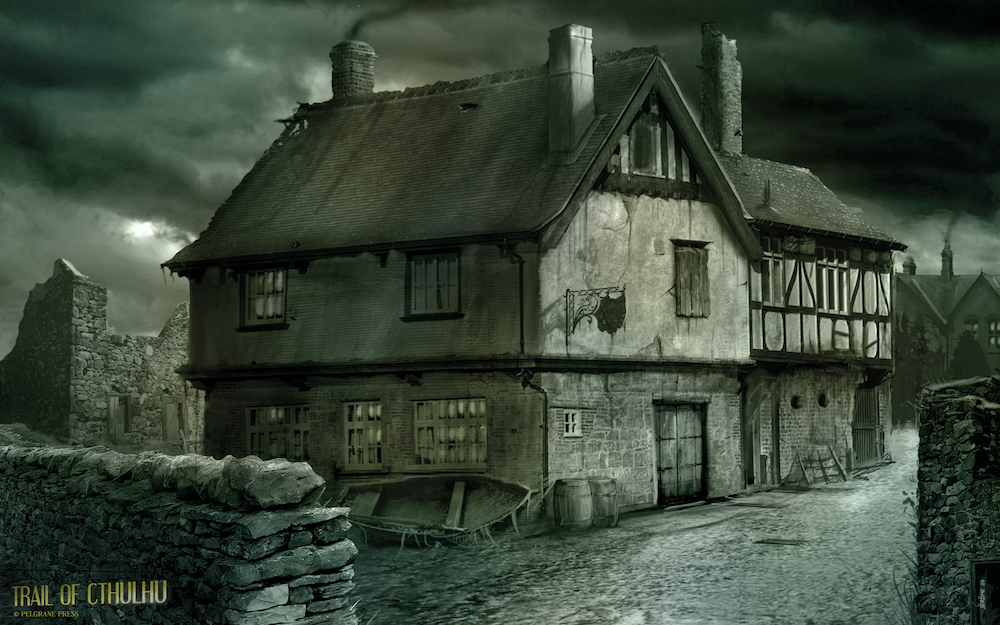
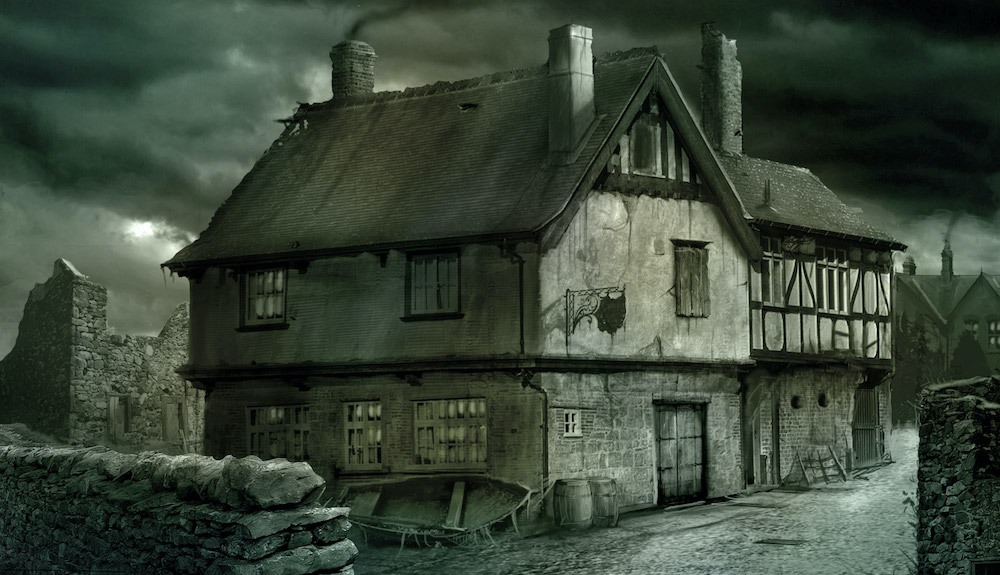
added narrator file

diff --git a/src/scenes.py b/src/scenes.py
@@ -17,22 +17,17 @@ class Display_Scene(Init_Game):
 
         pygame.display.update()   
 
-    def node2(self):
+    def node2(self, WIN_RESIZED):
         #display scene 2
         self.PSEUDO_SCREEN.fill(self.BLACK)
-        self.PSEUDO_SCREEN.blit(self.TENTACLE, (150, 450))
-        self.PSEUDO_SCREEN.blit(self.DIAL_BOX, (40, 430))
 
-        #display dialogue
         with open('dialogue.txt', 'r') as f:
+            f.seek(8)
             line1 = self.FONT.render(f.readline().rstrip('\n'), True, self.WHITE)
             line2 = self.FONT.render(f.readline().rstrip('\n'), True, self.WHITE)
-            line3 = self.FONT.render(f.readline().rstrip('\n'), True, self.WHITE)
-            line4 = self.FONT.render(f.readline().rstrip('\n'), True, self.WHITE)
-            self.PSEUDO_SCREEN.blit(line1, (190, 510))
-            self.PSEUDO_SCREEN.blit(line2, (190, 545))
-            self.PSEUDO_SCREEN.blit(line3, (190, 580))
-            self.PSEUDO_SCREEN.blit(line4, (190, 615))
+            self.SCREEN.blit(line1, (325, 330))
+            self.SCREEN.blit(line2, (300, 365))
+
         pygame.display.update()
 
     def node3(self):
@@ -44,6 +39,7 @@ class Display_Scene(Init_Game):
 
         #display dialogue
         with open('dialogue.txt', 'r') as f:
+            f.seek(100)
             line1 = self.FONT.render(f.readline().rstrip('\n'), True, self.WHITE)
             line2 = self.FONT.render(f.readline().rstrip('\n'), True, self.WHITE)
             line3 = self.FONT.render(f.readline().rstrip('\n'), True, self.WHITE)
@@ -83,7 +79,7 @@ class Display_Scene(Init_Game):
         bottom_margin = pygame.draw.rect(self.PSEUDO_SCREEN, self.BLACK, [0, 570, 1000, 70])
 
         self.PSEUDO_SCREEN.blit(self.LOOK_INTO_IT, (30, 600))
-        self.PSEUDO_SCREEN.blit(self.TELL_HIM, (695, 600))
+        self.PSEUDO_SCREEN.blit(self.TELL_HIM, (680, 600))
         self.PSEUDO_SCREEN.blit(self.WHITE_LINE, (100, 270))
 
         pygame.display.update()
@@ -110,7 +106,7 @@ class Display_Scene(Init_Game):
     def node7(self):
         #display scene 7
         self.PSEUDO_SCREEN.fill(self.BLACK)
-        self.PSEUDO_SCREEN.blit(self.HOUSE, (0, 37.5))
+        self.PSEUDO_SCREEN.blit(self.HOUSE, (0, 62.5))
         self.PSEUDO_SCREEN.blit(self.TENTACLE, (150, 450))
         self.PSEUDO_SCREEN.blit(self.DIAL_BOX, (40, 430))
 
@@ -259,7 +255,7 @@ class Display_Scene(Init_Game):
     def node16(self):
         #display scene 16
         self.PSEUDO_SCREEN.fill(self.BLACK)
-        self.PSEUDO_SCREEN.blit(self.HOUSE, (0, 37.5))
+        self.PSEUDO_SCREEN.blit(self.HOUSE, (0, 62.5))
         self.PSEUDO_SCREEN.blit(self.TENTACLE, (150, 450))
         self.PSEUDO_SCREEN.blit(self.DIAL_BOX, (40, 430))
 
@@ -423,3 +419,6 @@ class Display_Scene(Init_Game):
                     top_margin = pygame.draw.rect(self.SCREEN, self.BLACK, [0, TOP_Y, w, h/10])
                     bottom_margin = pygame.draw.rect(self.SCREEN, self.BLACK, [0, BOTTOM_Y, w, h/10])
                     pygame.display.update()
+    
+
+

diff --git a/src/gamefeatures.py b/src/gamefeatures.py
@@ -2,11 +2,12 @@
 import sys, pygame
 from pygame import mixer
 from scenes import Display_Scene
+from narrator import Narrator
 
 pygame.init()
 mixer.init()
 
-class Game_Features(Display_Scene):
+class Game_Features(Display_Scene, Narrator):
     def __init__(self):
         self.scene = 'node1'
         self.WIN_RESIZED = False
@@ -17,7 +18,7 @@ class Game_Features(Display_Scene):
             self.blit_screen()
             self.user_decision('node1')
         if self.scene == 'node2':
-            self.node2()
+            self.node2(self.WIN_RESIZED)
             self.blit_screen()
             self.user_decision('node2')
         if self.scene == 'node3':
@@ -122,8 +123,8 @@ class Game_Features(Display_Scene):
                 self.START_BUTTON_POS = pygame.Rect(w/2.25, h/1.23, w/8.3, h/14)
                 pygame.draw.rect(self.COLLISION_SCREEN, self.WHITE, self.START_BUTTON_POS, 3)
             if self.scene == 'node5':
-                self.TELL_HIM_POS = pygame.Rect(w/1.44, h/1.17, w/3.6, h/28)
-                self.LOOK_INTO_IT_POS = pygame.Rect(w/33.3, h/1.17, w/6.37, h/28)
+                self.TELL_HIM_POS = pygame.Rect(w/1.47, h/1.17, w/3.34, h/21.88)
+                self.LOOK_INTO_IT_POS = pygame.Rect(w/33.33, h/1.17, w/5.78, h/22.58)
                 pygame.draw.rect(self.COLLISION_SCREEN, self.WHITE, self.TELL_HIM_POS, 3)
                 pygame.draw.rect(self.COLLISION_SCREEN, self.WHITE, self.LOOK_INTO_IT_POS, 3)
 
@@ -156,6 +157,9 @@ class Game_Features(Display_Scene):
                             #if click start button
                             if (event.type == pygame.MOUSEBUTTONDOWN) and (event.button == 1):
                                 pygame.mixer.Sound.play(self.START_SOUND)
+                                self.SCREEN.fill(self.BLACK)
+                                self.blit_line1('node2', 0)
+                                self.blit_line2('node2', 0)
                                 self.scene = 'node2'
                         else:
                             self.START_BUTTON.set_alpha(150)
@@ -186,11 +190,13 @@ class Game_Features(Display_Scene):
                             #bold option
                             self.LOOK_INTO_IT.set_alpha(300)
                             if (event.type == pygame.MOUSEBUTTONDOWN) and (event.button == 1):
+                                self.screen_fader()
                                 self.scene = 'node6'
-                        if CHOICE_B:
+                        elif CHOICE_B:
                             #bold option
                             self.TELL_HIM.set_alpha(300)
                             if (event.type == pygame.MOUSEBUTTONDOWN) and (event.button == 1):
+                                self.screen_fader()
                                 self.scene = 'node7'
                         else:
                             self.LOOK_INTO_IT.set_alpha(100)

diff --git a/src/narrator.py b/src/narrator.py
@@ -1,0 +1,36 @@
+
+import pygame
+from initgame import Init_Game
+
+pygame.init()
+pygame.mixer.init()
+
+
+class Narrator(Init_Game):
+    def blit_line1(self, scene, count = 0):
+        with open('dialogue.txt', 'r') as f:
+            match scene:
+                case 'node2':
+                    f.seek(8)
+                    line1_v1 = f.readline().rstrip('\n')
+                    line1_v2 = ''
+                    for letter in range(0, len(line1_v1)):
+                        line1_v3 = self.FONT.render(line1_v2+line1_v1[letter], True, self.WHITE)
+                        self.SCREEN.blit(line1_v3, (325, 330))
+                        line1_v2 += line1_v1[letter]
+                        self.clock.tick(20)
+                        pygame.display.update()
+
+    def blit_line2(self, scene, count = 0):
+        with open('dialogue.txt', 'r') as f:
+            match scene:
+                case 'node2':
+                    f.seek(48)
+                    line2_v1 = f.readline().rstrip('\n')
+                    line2_v2 = ''
+                    for letter in range(0, len(line2_v1)):
+                        line2_v3 = self.FONT.render(line2_v2+line2_v1[letter], True, self.WHITE)
+                        self.SCREEN.blit(line2_v3, (300, 365))
+                        line2_v2 += line2_v1[letter]
+                        self.clock.tick(20)
+                        pygame.display.update()

diff --git a/src/initgame.py b/src/initgame.py
@@ -54,8 +54,8 @@ class Init_Game():
     BORDER.set_alpha(200)
     TENTACLE.set_alpha(200)
     START_BUTTON.set_alpha(150)
-    LOOK_INTO_IT.set_alpha(150)
-    TELL_HIM.set_alpha(150)
+    LOOK_INTO_IT.set_alpha(100)
+    TELL_HIM.set_alpha(100)
 
     #set sound fx
     START_SOUND = pygame.mixer.Sound("assets/wildBeastRoar.wav")
@@ -70,6 +70,6 @@ class Init_Game():
     #collision items
     w, h = pygame.display.get_surface().get_size()
     START_BUTTON_POS = pygame.Rect(w/2.25, h/1.23, w/8.3, h/14)
-    TELL_HIM_POS = pygame.Rect(w/1.44, h/1.17, w/3.6, h/28)
-    LOOK_INTO_IT_POS = pygame.Rect(w/33.3, h/1.17, w/6.37, h/28)
+    TELL_HIM_POS = pygame.Rect(w/1.47, h/1.17, w/3.34, h/21.88)
+    LOOK_INTO_IT_POS = pygame.Rect(w/33.33, h/1.17, w/5.78, h/22.58)
 

diff --git a/src/main.py b/src/main.py
@@ -16,7 +16,6 @@ def main():
     #initialize variables
     curr_game = Game_Features()
     clock = pygame.time.Clock()
-    FPS = 30
 
     #set audio
     OPENING = mixer.music.load("assets/Beginning.mp3")
@@ -33,7 +32,6 @@ def main():
             if event.type == pygame.QUIT:
                 running = False
 
-        clock.tick(FPS)
         curr_game.scene_manager()
 
  ####### END OF GAME LOOP ########
